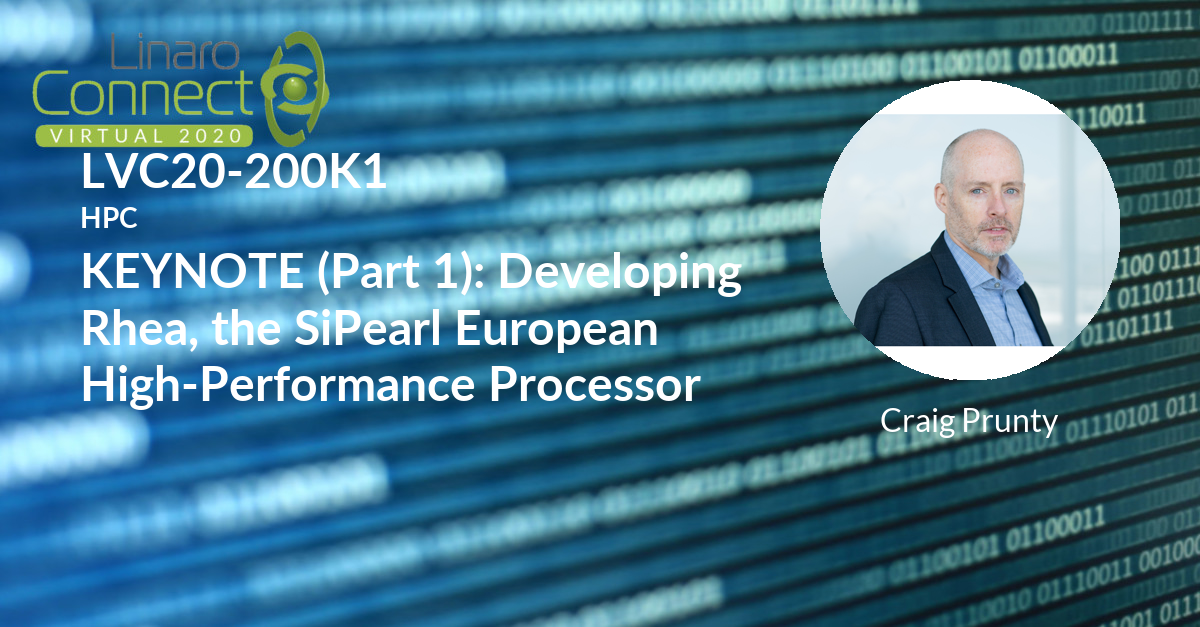
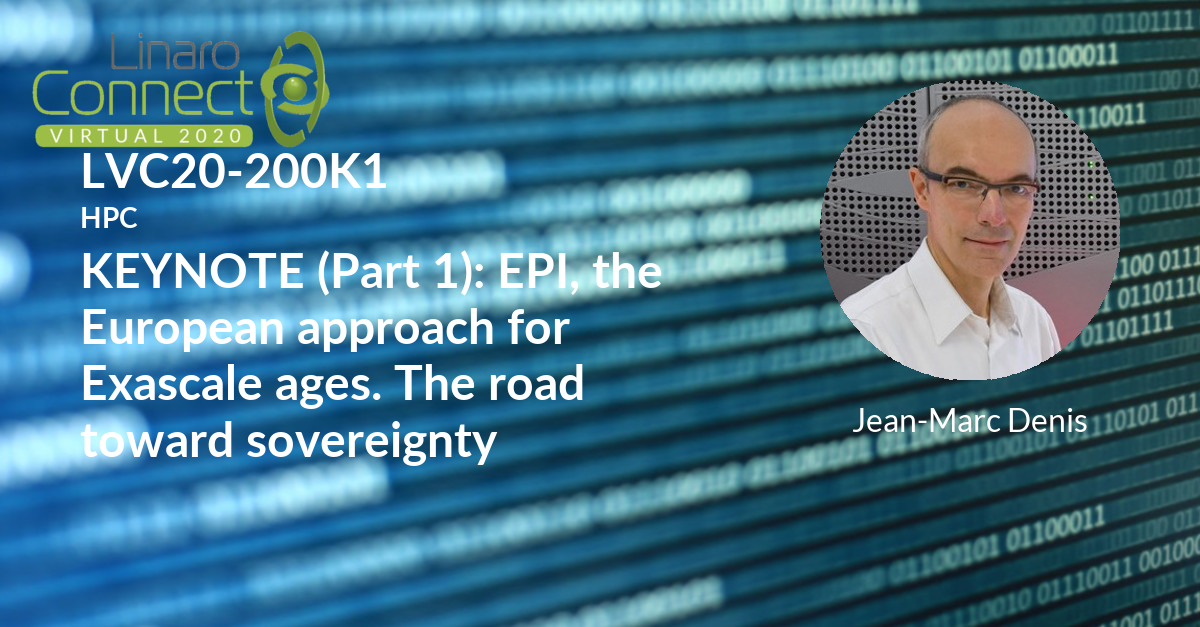
Session update for session-update-200918-1540

diff --git a/_posts/lvc20/sessions/2020-09-18-lvc20-200k1.md b/_posts/lvc20/sessions/2020-09-18-lvc20-200k1.md
@@ -1,36 +1,54 @@
 ---
 categories:
 - lvc20
-description: SiPearl was founded in 2019 as the production hand of the European Processor
-  Initiative. Now at 22 employees, we are growing fast to deploy our first generation
-  processor, Rhea, as the cornerstone of European Exascale systems. In this talk we
-  provide an overview of SiPearl and our objectives and discuss some of the top level
-  architecture choices and KPI to address our target markets. A fundamental for the
-  selection of Arm is the server software and partner ecosystem that has grown steadily
-  over the years thanks to the user community with the help of organizations such
-  as Linaro.
+description: 'The European Commission has set an extremely ambitious target to the
+  European Processor Initiative (EPI): develop the processor that will empower the
+  European Exascale machines, and laid the foundations of the European Sovereignty
+  for high-performance and low-power processing units. The European ambition and how
+  it is implemented is presented.'
 image: /assets/images/featured-images/lvc20/LVC20-200K1.png
 session_id: LVC20-200K1
 session_room: '[Track 1] IoT/Edge/Embedded'
 session_slot:
-  end_time: 2020-09-23 07:50
-  start_time: 2020-09-23 07:35
+  end_time: 2020-09-23 07:55
+  start_time: 2020-09-23 07:40
 session_speakers:
-- speaker_bio: Craig joined SiPearl in May 2020 as VP Marketing and Business Development.
-    Before moving to SiPearl, Craig was Marketing Director for Marvell Semiconductor’s
-    Server Processor Business Unit in Santa Clara, California. His 20+ years in the
-    Semiconductor industry include sales, marketing, and technical roles with Cavium,
-    AppliedMicro (AMCC), Lockheed-Martin, and Unisys. &amp;nbsp;Craig holds a B.S.
-    in Mathematics from Lewis &amp;amp; Clark College in Portland, Oregon, and an
-    MS in Electrical Engineering from San Diego State University.
+- speaker_bio: Since the beginning of 2020, Jean-Marc is the Chief of Staff of the
+    Innovation and Strategy Division at Atos. In addition, since mid-2018, Jean-Marc
+    has been also elected as Chair of the Board of the European Processor Initiative
+    (EPI).&lt;br&gt;Prior to that, Jean-Marc Denis took different positions in the
+    HPC industry.&lt;br&gt;After five years of research in the development of new
+    solvers for the for Maxwell equations at Matra Defense (France) as mathematician
+    from 1990 to 1995, Jean-Marc Denis had several technical position in the HPC industry
+    between 1995 to 2004 from &amp;nbsp;HPC pre-sales to Senior Solution Architect.&lt;br&gt;Since
+    mid if 2004 Jean-Marc has worked at Bull SAS head Quarter (France) where he has
+    started the HPC activity. In less than 10 years, the HPC revenue at Bull exploded
+    from nothing in 2004 to 200M€ in 2015, making Bull the undisputed leader of the
+    European HPC industry and the fourth in the world. From 2011 to the end of 2016,
+    Jean-Marc has leaded the worldwide business activity with the goal to consolidate
+    the ATOS/Bull position in Europe and to make ATOS/Bull a worldwide leader in Extreme
+    Computing with footprint in Middle-East, Asia, Africa and South America.&lt;br&gt;From
+    2018 to 2020, Jean-Marc has been the head of Strategy and Plan at Atos/Bull, in
+    charge of the global cross-Business Unit Strategy and of the definition of the
+    3 years business plan.&lt;br&gt;In 2016 and 2017, Jean-Marc has been in charge
+    of the definition of the strategy for the BigData Division at ATOS/Bull. In his
+    position, his role is to define the global approach for the different BigData
+    business lines covering HPC, Legacy (mainframe), Entreprise computing, DataScience
+    consulting and Software.&lt;br&gt;In parallel to his activities at ATOS/Bull,
+    since 2008, Jean-Marc Denis has taught “Supercomputer Architecture” concepts in
+    Master 2 degree at the University of Reims Champagne Ardennes (URCA), France.&lt;br&gt;Education&lt;ul&gt;&lt;li&gt;Masters
+    degree in Mathematics (U. of Tours, France, 1989)&lt;/li&gt;&lt;li&gt;Masters
+    degree in Computer Science (U. of Toulouse, France, 1990)&lt;/li&gt;&lt;li&gt;Engineering
+    diploma in Computer science, (ENSEEIHT, Toulouse, France, 1990)&lt;/li&gt;&lt;/ul&gt;
   speaker_company: SiPearl
-  speaker_image: http://avatars.sched.co/4/cb/11793143/avatar.jpg.320x320px.jpg?43a
-  speaker_name: Craig Prunty
-  speaker_position: SiPearl Vice President Marketing and Business Development
+  speaker_image: http://avatars.sched.co/a/30/11617155/avatar.jpg.320x320px.jpg?a0e
+  speaker_name: Jean-Marc Denis
+  speaker_position: Chief of Staff of the Innovation and Strategy Division at Atos,
+    Chair of the Board of the European Processor Initiative (EPI)
   speaker_role: speaker
 session_track: HPC
 tag: session
 tags: HPC
-title: 'LVC20-200K1 KEYNOTE (Part 1): Developing Rhea, the SiPearl European High-Performance
-  Processor'
+title: 'LVC20-200K1 KEYNOTE (Part 1): EPI, the European approach for Exascale ages.
+  The road toward sovereignty'
 ---

diff --git a/_posts/lvc20/sessions/2020-09-18-lvc20-200k2.md b/_posts/lvc20/sessions/2020-09-18-lvc20-200k2.md
@@ -1,54 +1,36 @@
 ---
 categories:
 - lvc20
-description: 'The European Commission has set an extremely ambitious target to the
-  European Processor Initiative (EPI): develop the processor that will empower the
-  European Exascale machines, and laid the foundations of the European Sovereignty
-  for high-performance and low-power processing units. The European ambition and how
-  it is implemented is presented.'
+description: SiPearl was founded in 2019 as the production hand of the European Processor
+  Initiative. Now at 22 employees, we are growing fast to deploy our first generation
+  processor, Rhea, as the cornerstone of European Exascale systems. In this talk we
+  provide an overview of SiPearl and our objectives and discuss some of the top level
+  architecture choices and KPI to address our target markets. A fundamental for the
+  selection of Arm is the server software and partner ecosystem that has grown steadily
+  over the years thanks to the user community with the help of organizations such
+  as Linaro.
 image: /assets/images/featured-images/lvc20/LVC20-200K2.png
 session_id: LVC20-200K2
 session_room: '[Track 1] IoT/Edge/Embedded'
 session_slot:
-  end_time: 2020-09-23 07:55
-  start_time: 2020-09-23 07:40
+  end_time: 2020-09-23 08:10
+  start_time: 2020-09-23 07:55
 session_speakers:
-- speaker_bio: Since the beginning of 2020, Jean-Marc is the Chief of Staff of the
-    Innovation and Strategy Division at Atos. In addition, since mid-2018, Jean-Marc
-    has been also elected as Chair of the Board of the European Processor Initiative
-    (EPI).&lt;br&gt;Prior to that, Jean-Marc Denis took different positions in the
-    HPC industry.&lt;br&gt;After five years of research in the development of new
-    solvers for the for Maxwell equations at Matra Defense (France) as mathematician
-    from 1990 to 1995, Jean-Marc Denis had several technical position in the HPC industry
-    between 1995 to 2004 from &amp;nbsp;HPC pre-sales to Senior Solution Architect.&lt;br&gt;Since
-    mid if 2004 Jean-Marc has worked at Bull SAS head Quarter (France) where he has
-    started the HPC activity. In less than 10 years, the HPC revenue at Bull exploded
-    from nothing in 2004 to 200M€ in 2015, making Bull the undisputed leader of the
-    European HPC industry and the fourth in the world. From 2011 to the end of 2016,
-    Jean-Marc has leaded the worldwide business activity with the goal to consolidate
-    the ATOS/Bull position in Europe and to make ATOS/Bull a worldwide leader in Extreme
-    Computing with footprint in Middle-East, Asia, Africa and South America.&lt;br&gt;From
-    2018 to 2020, Jean-Marc has been the head of Strategy and Plan at Atos/Bull, in
-    charge of the global cross-Business Unit Strategy and of the definition of the
-    3 years business plan.&lt;br&gt;In 2016 and 2017, Jean-Marc has been in charge
-    of the definition of the strategy for the BigData Division at ATOS/Bull. In his
-    position, his role is to define the global approach for the different BigData
-    business lines covering HPC, Legacy (mainframe), Entreprise computing, DataScience
-    consulting and Software.&lt;br&gt;In parallel to his activities at ATOS/Bull,
-    since 2008, Jean-Marc Denis has taught “Supercomputer Architecture” concepts in
-    Master 2 degree at the University of Reims Champagne Ardennes (URCA), France.&lt;br&gt;Education&lt;ul&gt;&lt;li&gt;Masters
-    degree in Mathematics (U. of Tours, France, 1989)&lt;/li&gt;&lt;li&gt;Masters
-    degree in Computer Science (U. of Toulouse, France, 1990)&lt;/li&gt;&lt;li&gt;Engineering
-    diploma in Computer science, (ENSEEIHT, Toulouse, France, 1990)&lt;/li&gt;&lt;/ul&gt;
+- speaker_bio: Craig joined SiPearl in May 2020 as VP Marketing and Business Development.
+    Before moving to SiPearl, Craig was Marketing Director for Marvell Semiconductor’s
+    Server Processor Business Unit in Santa Clara, California. His 20+ years in the
+    Semiconductor industry include sales, marketing, and technical roles with Cavium,
+    AppliedMicro (AMCC), Lockheed-Martin, and Unisys. &amp;nbsp;Craig holds a B.S.
+    in Mathematics from Lewis &amp;amp; Clark College in Portland, Oregon, and an
+    MS in Electrical Engineering from San Diego State University.
   speaker_company: SiPearl
-  speaker_image: http://avatars.sched.co/a/30/11617155/avatar.jpg.320x320px.jpg?a0e
-  speaker_name: Jean-Marc Denis
-  speaker_position: Chief of Staff of the Innovation and Strategy Division at Atos,
-    Chair of the Board of the European Processor Initiative (EPI)
+  speaker_image: http://avatars.sched.co/4/cb/11793143/avatar.jpg.320x320px.jpg?43a
+  speaker_name: Craig Prunty
+  speaker_position: SiPearl Vice President Marketing and Business Development
   speaker_role: speaker
 session_track: HPC
 tag: session
 tags: HPC
-title: 'LVC20-200K2 KEYNOTE (Part 1): EPI, the European approach for Exascale ages.
-  The road toward sovereignty'
+title: 'LVC20-200K2 KEYNOTE (Part 2): Developing Rhea, the SiPearl European High-Performance
+  Processor'
 ---
